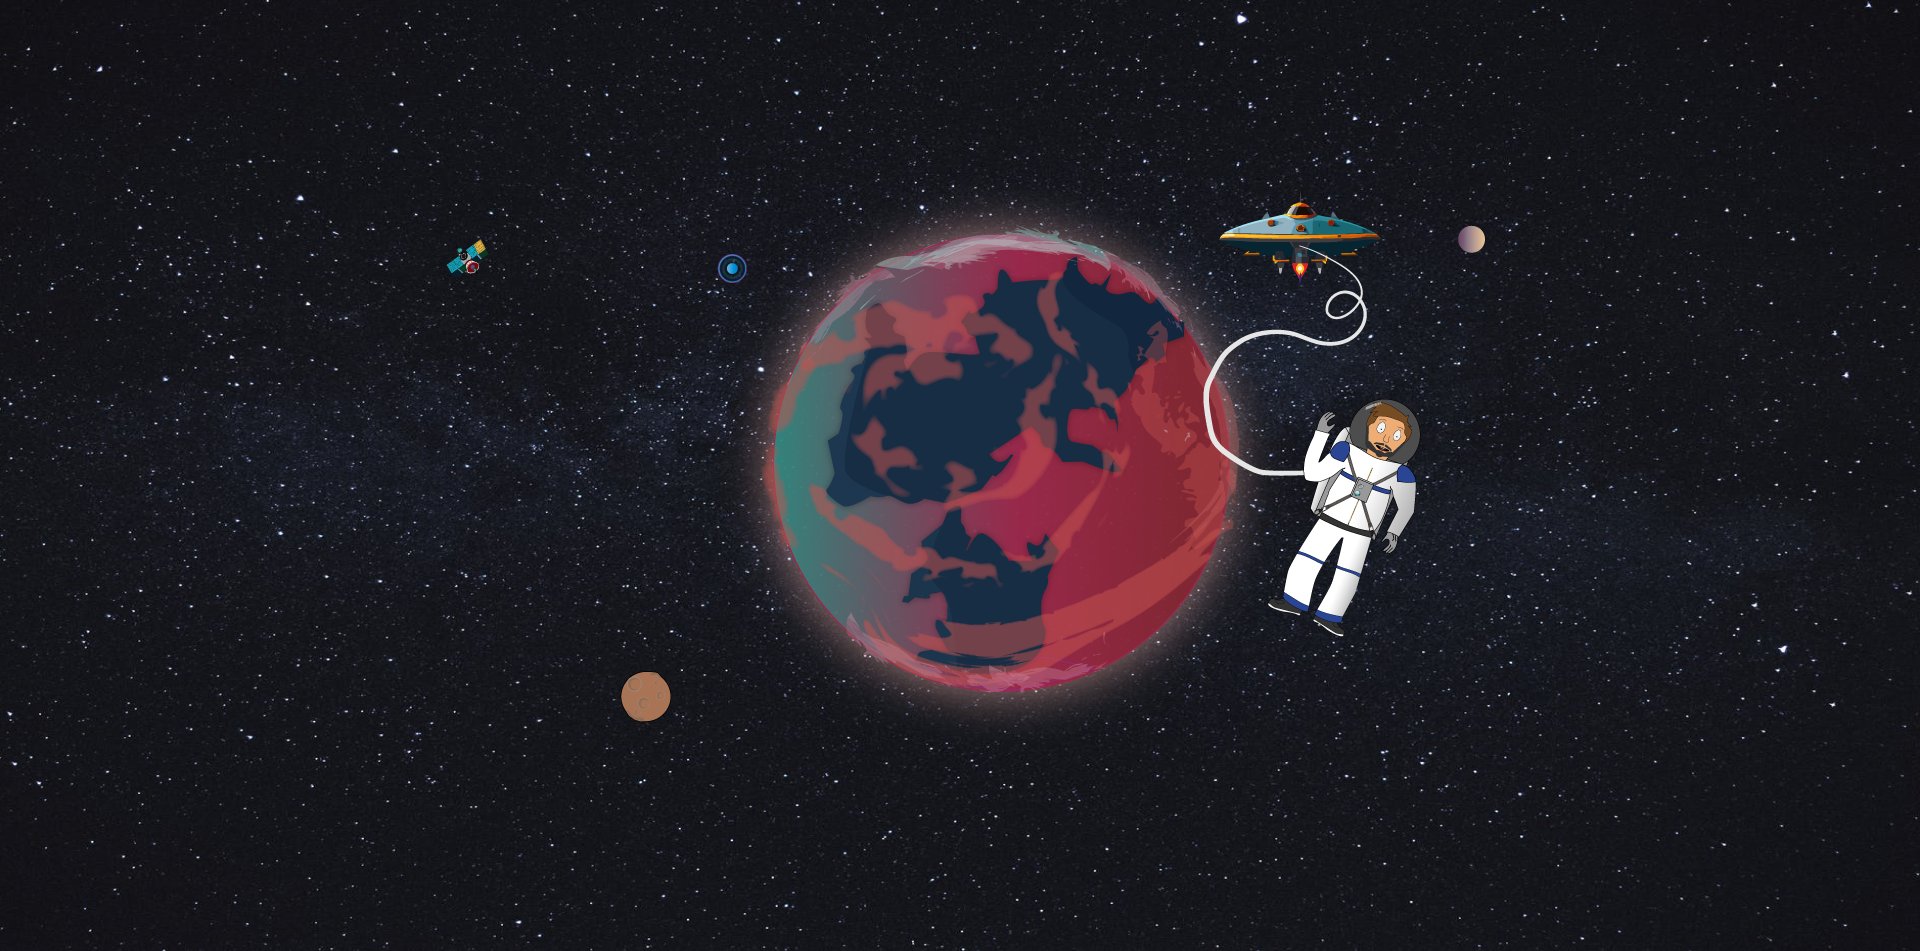
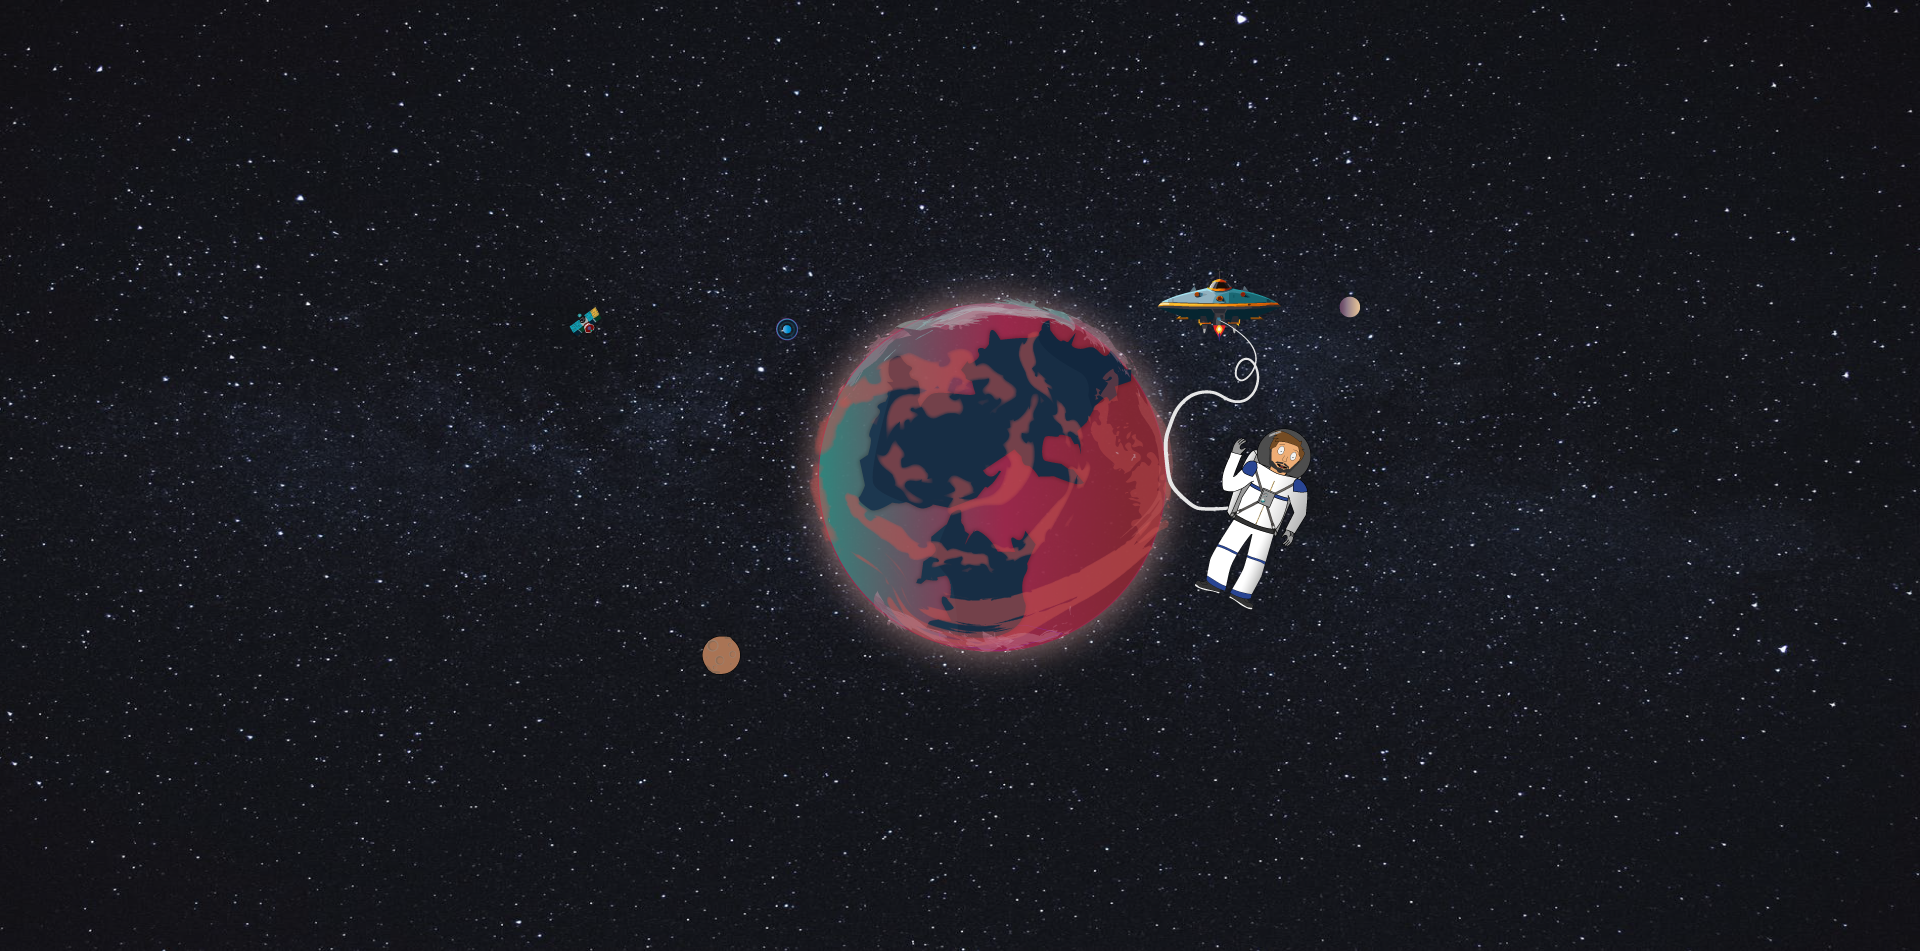
making new background more mobile friendly

diff --git a/src/components/Header/Header.js b/src/components/Header/Header.js
@@ -1,7 +1,7 @@
 import React, { Component } from 'react';
 import ScrollableAnchor from 'react-scrollable-anchor'
 
-import background from './images/header-background.png'
+import background from './images/background.png'
 
 import './Header.css'
 
